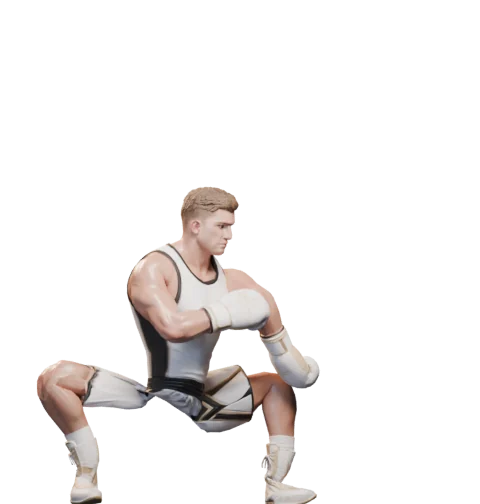
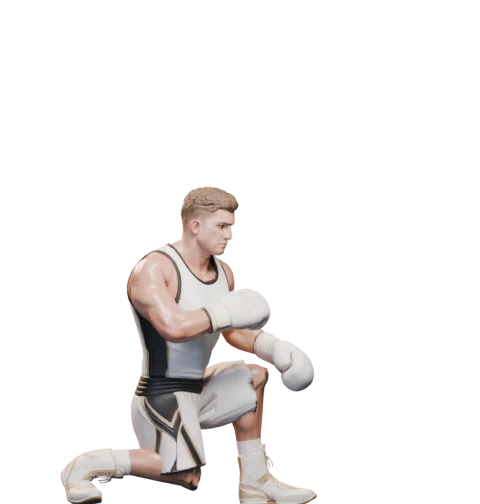
Fix champion legs: knees bent backwards, trunks webbed
- rig: symmetric hips when a loose-trunks slice throws one off, knees kept
  in front of the hip-ankle line, per-model knee height, and leg weights
  no longer bleed across the gap between the legs
- pose: calibrate_poles() flips any limb that bends away from its pole
  (new models only; crimson/white keep their tuned angles)
- re-rendered all 21 opponent frames

Claude-Session: https://claude.ai/code/session_01CTVKu6AXTtmttYmvL1XN2m

Changed region(s): [[0.0625, 0.5952, 0.6875, 1.0], [0.4062, 0.506, 0.5625, 0.5952]]

diff --git a/tools/sprites/rig.py b/tools/sprites/rig.py
@@ -5,7 +5,7 @@ from mathutils import Vector
 SPEC = {
  'crimson': dict(height=1.85, hipx=0.055, kneex=0.068, anklex=0.077, sh=(0.79,0.105), el=(0.60,0.155), wr=(0.505,0.19), tip=(0.43,0.21)),
  'white':   dict(height=1.83, hipx=0.06,  kneex=0.09,  anklex=0.112, sh=(0.79,0.105), el=(0.60,0.137), wr=(0.505,0.15), tip=(0.43,0.17)),
- 'champ':   dict(height=1.85, hipx=0.105, kneex=0.144, anklex=0.19,  sh=(0.775,0.237), el=(0.69,0.437), wr=(0.61,0.645), tip=(0.535,0.731)),
+ 'champ':   dict(height=1.85, hipx=0.105, kneex=0.144, anklex=0.19,  sh=(0.775,0.237), el=(0.69,0.437), wr=(0.61,0.645), tip=(0.535,0.731), kneez=0.305, split_legs=True),
 }
 
 def load(name, fbx, gloves=None):
@@ -50,9 +50,19 @@ def load(name, fbx, gloves=None):
         J['wr'+s]=cen(sp['wr'][0],sp['wr'][1],side,0.035)
         J['tip'+s]=cen(sp['tip'][0],sp['tip'][1],side,0.035)
         J['hip'+s]=cen(0.47,sp['hipx'],side,0.03); J['hip'+s].z=0.49*H
-        J['knee'+s]=cen(0.28,sp['kneex'],side,0.03)
+        J['knee'+s]=cen(sp.get('kneez',0.28),sp['kneex'],side,0.03)
         J['ank'+s]=cen(0.05,sp['anklex'],side,0.03)
         J['toe'+s]=Vector((J['ank'+s].x, v[:,1].min()*0.9, 0.01*H))
+    # Loose trunks can throw one hip slice off (only the back of the shorts lands in the
+    # window). Hips must be symmetric: if they disagree, take the pelvis depth for both.
+    if abs(J['hipL'].y-J['hipR'].y)>0.03*H:
+        J['hipL'].y=J['hipR'].y=J['pelvis'].y
+    # IK bends a leg the way its rest pose is already bent, so keep each knee in front (-Y)
+    # of its hip-ankle line or the knee folds backwards.
+    for s in 'LR':
+        hp,kn,an=J['hip'+s],J['knee'+s],J['ank'+s]
+        t=(hp.z-kn.z)/max(1e-6,hp.z-an.z); line_y=hp.y+(an.y-hp.y)*t
+        if kn.y>line_y-0.02*H: kn.y=line_y-0.02*H
     # armature
     ad=bpy.data.armatures.new(name+'_arm'); arm=bpy.data.objects.new(name+'_rig',ad)
     bpy.context.scene.collection.objects.link(arm)
@@ -121,6 +131,24 @@ def load(name, fbx, gloves=None):
             if best is None or dd<best[0]: best=(dd,n)
         g=ob.vertex_groups.get(best[1]) or ob.vertex_groups.new(name=best[1])
         g.add([vv.index],1.0,'REPLACE')
+    if sp.get('split_legs'):
+        # loose trunks: heat weights bleed across the gap between the legs and web them
+        # together. Drop leg weights from the opposite side, then renormalize.
+        bad={}
+        for sfx,sign in (('L',1),('R',-1)):
+            for n in ('thigh','shin','foot'):
+                g=ob.vertex_groups.get(n+'.'+sfx)
+                if g: bad[g.index]=sign
+        for vv in ob.data.vertices:
+            drop=[e.group for e in vv.groups if e.group in bad and vv.co.x*bad[e.group]<0]
+            if not drop: continue
+            for gi in drop: ob.vertex_groups[gi].remove([vv.index])
+            tot=sum(e.weight for e in vv.groups)
+            if tot<=0.01:
+                side='L' if vv.co.x>0 else 'R'
+                ob.vertex_groups['thigh.'+side].add([vv.index],1.0,'REPLACE')
+            else:
+                for e in vv.groups: e.weight/=tot
     unw=sum(1 for vv in ob.data.vertices if not any(e.weight>0.01 for e in vv.groups))
     print('RIG',name,'unweighted verts',unw,'of',len(ob.data.vertices))
     return ob, arm, J

diff --git a/tools/sprites/pose.py b/tools/sprites/pose.py
@@ -65,3 +65,21 @@ def apply(arm, tg, pose):
     for k in ['lh','rh','lp','rp','lf','rf','lk','rk']:
         f,l,u=p[k]; tg[k].location=arm.matrix_world@P(f,l,u)
     bpy.context.view_layer.update()
+
+def calibrate_poles(arm, tg, pose):
+    """Pole angles assume a particular bone roll / rest bend. On a new model a limb can
+    come out bent exactly away from its pole (knees folding backwards). Pose once, check
+    each limb's mid joint against its pole target, and flip the angle 180 deg if needed."""
+    apply(arm, tg, pose)
+    pb=arm.pose.bones; mw=arm.matrix_world; flipped=[]
+    for root,mid,pk in (('upper_arm.L','forearm.L','lp'),('upper_arm.R','forearm.R','rp'),
+                        ('thigh.L','shin.L','lk'),('thigh.R','shin.R','rk')):
+        a=mw@pb[root].head; j=mw@pb[mid].head; e=mw@pb[mid].tail
+        ax=(e-a).normalized(); off=j-(a+ax*((j-a).dot(ax)))
+        pl=tg[pk].matrix_world.translation; plo=pl-(a+ax*((pl-a).dot(ax)))
+        if off.length>0.02 and off.dot(plo)<0:
+            c=[c for c in pb[mid].constraints if c.type=='IK'][0]
+            c.pole_angle+=math.pi; flipped.append(mid)
+    bpy.context.view_layer.update()
+    print('POLES flipped:',flipped)
+    return flipped

diff --git a/tools/sprites/render_sprites.py b/tools/sprites/render_sprites.py
@@ -10,6 +10,8 @@ bpy.ops.wm.read_factory_settings(use_empty=True)
 ob,arm,J=rig.load(name,fbx)
 if name=='crimson': rig.add_gloves(arm)
 tg=pose.setup_ik(arm)
+# crimson/white were tuned by eye with the default pole angles; new models self-check.
+if name not in ('crimson','white'): pose.calibrate_poles(arm,tg,poses.POSES['duck'])
 scene_util.light_rig()
 RW,RH=480,504
 cam=scene_util.sprite_camera(8, 2.0, RW, RH, 0.2, 1.0)
